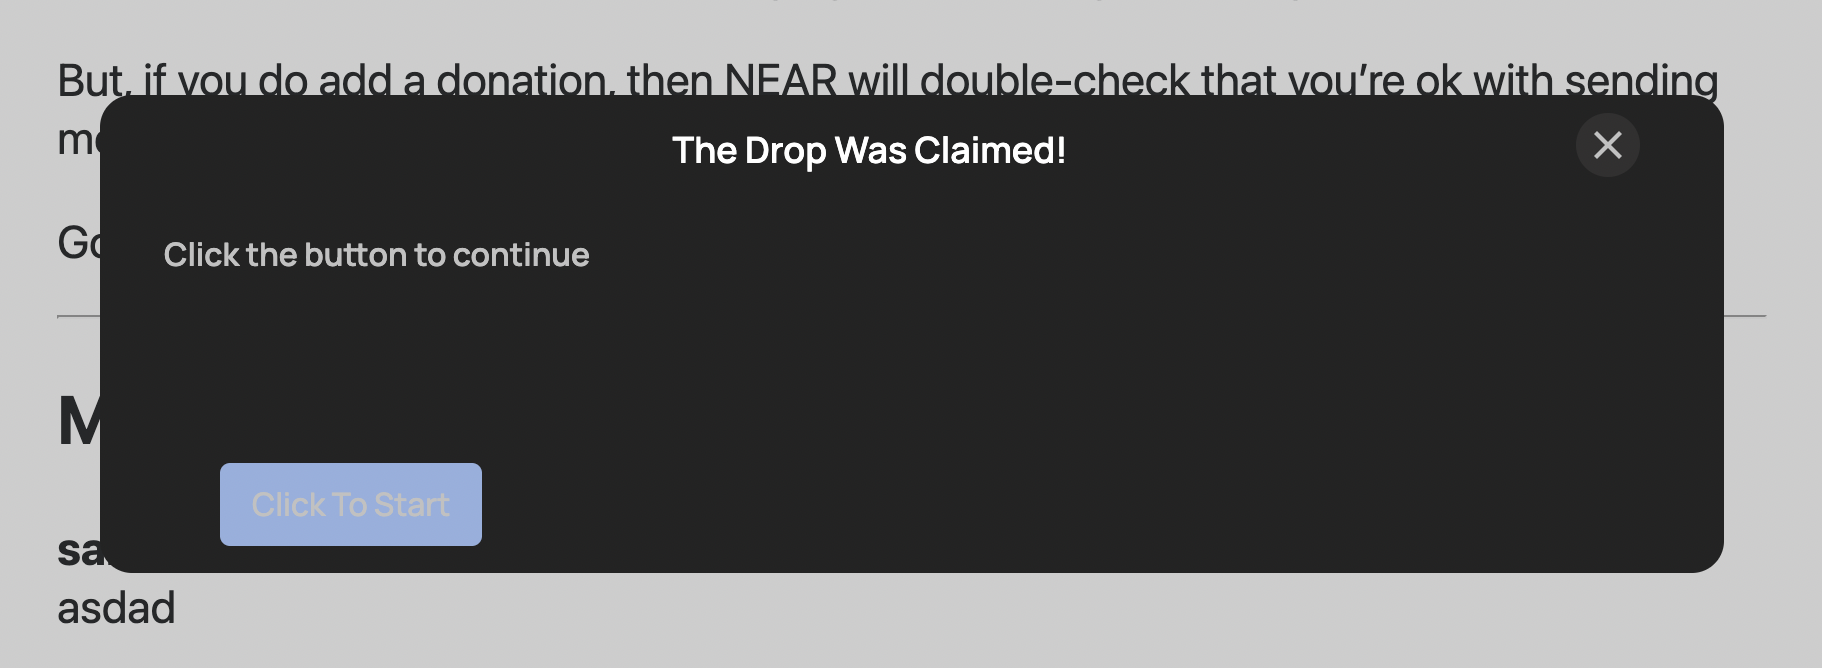
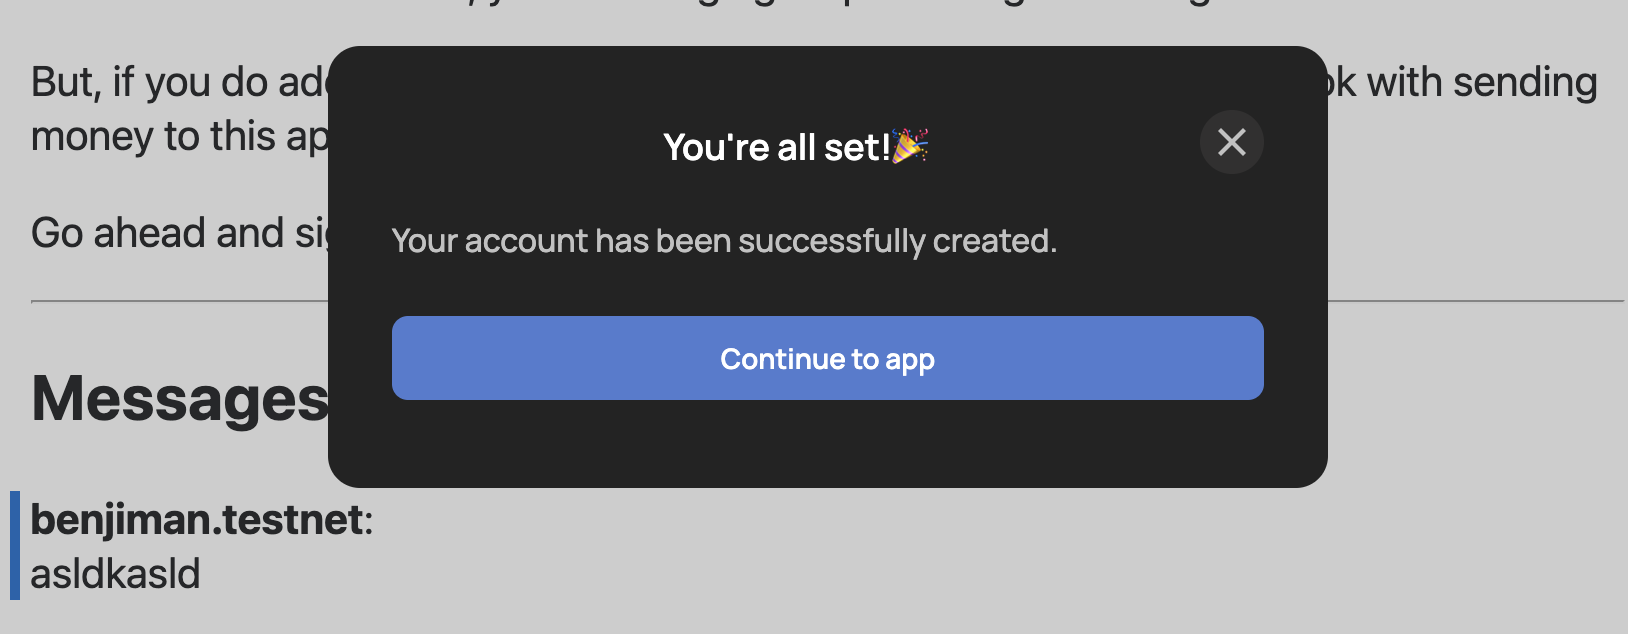
modified images and updated code refs

diff --git a/docs/TrialAccounts/Creation/integration.md b/docs/TrialAccounts/Creation/integration.md
@@ -47,13 +47,13 @@ cd advanced-tutorials/trial-accounts
 From here, make sure you change the account ID that is being used to sign transactions to an account that you're currently signed in with:
 
 ```js reference
-https://github.com/keypom/keypom-docs-examples/blob/4c8f86dab842c16e9c2bc6ad6f22e1eee2dced9e/advanced-tutorials/trial-accounts/create-trial-drop.js#L10
+https://github.com/keypom/keypom-docs-examples/blob/f1f634a629808f0d0943e508c2be6576622d32b1/advanced-tutorials/trial-accounts/create-trial-drop.js#L11
 ```
 
 In addition, change the `guestBookInstance` to whichever URL your app is running on:
 
 ```js reference
-https://github.com/keypom/keypom-docs-examples/blob/4c8f86dab842c16e9c2bc6ad6f22e1eee2dced9e/advanced-tutorials/trial-accounts/create-trial-drop.js#L71
+https://github.com/keypom/keypom-docs-examples/blob/f1f634a629808f0d0943e508c2be6576622d32b1/advanced-tutorials/trial-accounts/create-trial-drop.js#L70
 ```
 
 Once this is finished, you can run the following command to create the trial account drop.
@@ -88,7 +88,7 @@ Log [v2.keypom.testnet]: Fees collected 0
 
 
   Guest-Book App:
-http://localhost:1234/keypom-url#v2.keypom.testnet/3HbgYBvVMSfTBpXQ4fSecbPzwup2YkJPipNmT7e2iyw5MfzfMN3rHccsPddWcTGFTehCux7AbmtJiRqd78x4F57g
+http://localhost:1234/trial-url#v2.keypom.testnet/3HbgYBvVMSfTBpXQ4fSecbPzwup2YkJPipNmT7e2iyw5MfzfMN3rHccsPddWcTGFTehCux7AbmtJiRqd78x4F57g
 
 Good Luck!
 ```
@@ -101,7 +101,7 @@ Now that the drop is created, it's time to create a brand new account! Open the 
   <img src={require("/static/img/docs/trial-accounts/claim-trial-guestbook.png").default} width="80%" height="15%" alt="ticketing"/>
 </p>
 
-Enter a username and click Submit. If the username is available, it should tell you with a browser alert. If not, simply input a new one and try again. Once the account is available, the claiming process should start.
+Enter a valid username and click Create. This will start the claiming process.
 
 <p align="center">
   <img src={require("/static/img/docs/trial-accounts/claiming-trial-guestbook.png").default} width="80%" height="15%" alt="ticketing"/>
@@ -117,7 +117,7 @@ Once you click the button, you should be instantly signed into the guest-book ap
 
 ### Signing Your First Transaction
 
-Now that you're signed in, you can instantly begin using the guest-book app. Try signing a message with `0.1 $NEAR` and see what happens!
+Now that you're signed in, you can instantly begin using the guest-book app. Try signing a message with `0.01 $NEAR` and see what happens!
 
 <p align="center">
   <img src={require("/static/img/docs/trial-accounts/trial-sign-guestbook.png").default} width="80%" height="15%" alt="ticketing"/>
@@ -154,11 +154,11 @@ If the account were to lose access of the local storage or their computer blew u
 In order for the guest-book app to be fully compatible with trial accounts, it only needs to add the SDK's wallet selector plugin.
 
 ```js reference
-https://github.com/keypom/keypom-docs-examples/blob/4c8f86dab842c16e9c2bc6ad6f22e1eee2dced9e/advanced-tutorials/trial-accounts/guest-book/near-wallet.js#L41-L54
+https://github.com/keypom/keypom-docs-examples/blob/f1f634a629808f0d0943e508c2be6576622d32b1/advanced-tutorials/trial-accounts/guest-book/near-wallet.js#L46-L59
 ```
 
 You'll notice that there are a couple of parameters that are passed into the `setupKeypom` function. You need to specify:
-- `trialBaseUrl`: The base URL that the trial account will be sent to. In the guest-book app, this is `http://localhost:1234/keypom-url#`. The full URL for any given trial account link follows `${trialBaseURL}${keypomContractId}${trialSplitDelim}${secretKey}`. By default, the `trialSplitDelim` is `/` but this can be overloaded and passed into the setup function.
+- `trialAccountSpecs.baseUrl`: The base URL that the trial account will be sent to. In the guest-book app, this is defined as `http://localhost:1234/trial-url#`. The full URL for any given trial account link follows `${baseURL}${keypomContractId}${delimiter}${secretKey}`. By default, the `trialAccountSpecs.delimiter` is `/` but this can be overloaded and passed into the setup function.
 - `signInContractId`: The contract ID that regular users create access keys for when signing in.
 - `modalOptions`: Information that you can specify that will customize the modals that are shown to the user while on your app.
 

diff --git a/docs/Tutorials/Basics/fc-drops.md b/docs/Tutorials/Basics/fc-drops.md
@@ -113,7 +113,7 @@ After installing the SDK, your `package.json` file should now look slightly diff
   "license": "ISC",
   # highlight-start
   "dependencies": {
-    "@keypom/core": "^1.0.0-rc.2"
+    "@keypom/core": "^1.0.0"
   }
   # highlight-end
 }

diff --git a/docs/Tutorials/Basics/ft-drops.md b/docs/Tutorials/Basics/ft-drops.md
@@ -110,7 +110,7 @@ After installing the SDK, your `package.json` file should now look slightly diff
   "license": "ISC",
   # highlight-start
   "dependencies": {
-    "@keypom/core": "^1.0.0-rc.2"
+    "@keypom/core": "^1.0.0"
   }
   # highlight-end
 }

diff --git a/docs/Tutorials/Basics/nft-drops.md b/docs/Tutorials/Basics/nft-drops.md
@@ -110,7 +110,7 @@ After installing the SDK, your `package.json` file should now look slightly diff
   "license": "ISC",
   # highlight-start
   "dependencies": {
-    "@keypom/core": "^1.0.0-rc.2"
+    "@keypom/core": "^1.0.0"
   }
   # highlight-end
 }

diff --git a/docs/Tutorials/Basics/simple-drops.md b/docs/Tutorials/Basics/simple-drops.md
@@ -111,7 +111,7 @@ After installing the SDK, your `package.json` file should now look slightly diff
   "license": "ISC",
   # highlight-start
   "dependencies": {
-    "@keypom/core": "^1.0.0-rc.2"
+    "@keypom/core": "^1.0.0"
   }
   # highlight-end
 }
